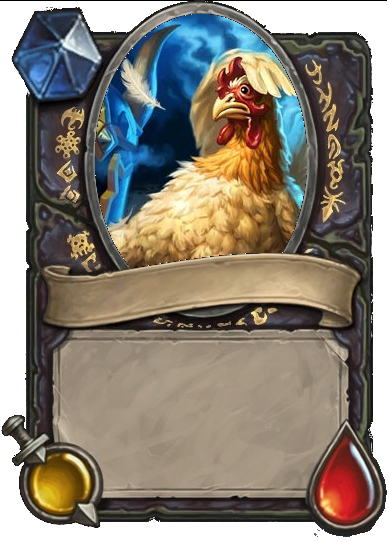
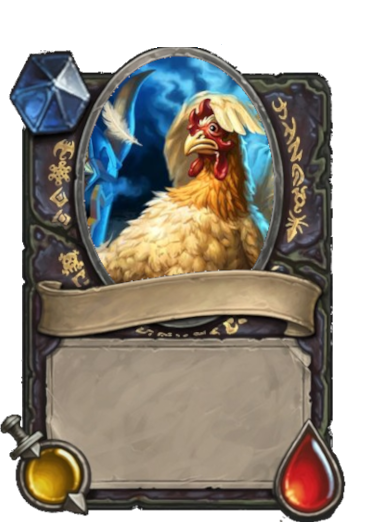
removed images that were not needed

diff --git a/src/Pages/Battle.js b/src/Pages/Battle.js
@@ -1,5 +1,5 @@
 import './Battle.css';
-import Image from "../images/blankcard4.png";
+import Image from "../images/blankcard1.png";
 import React, { useState, useEffect } from "react";
 import { Spinner } from 'react-bootstrap';
 let cards = '/getcards'
@@ -15,6 +15,8 @@ function Battle() {
   const [customResult, setCustomResult] = useState('');
   const [isLoading, setLoading] = useState(true);
   const [isEmpty, setEmpty] = useState(true);
+  
+
   useEffect(() => {
     fetch(cards, {
       method: 'POST',
